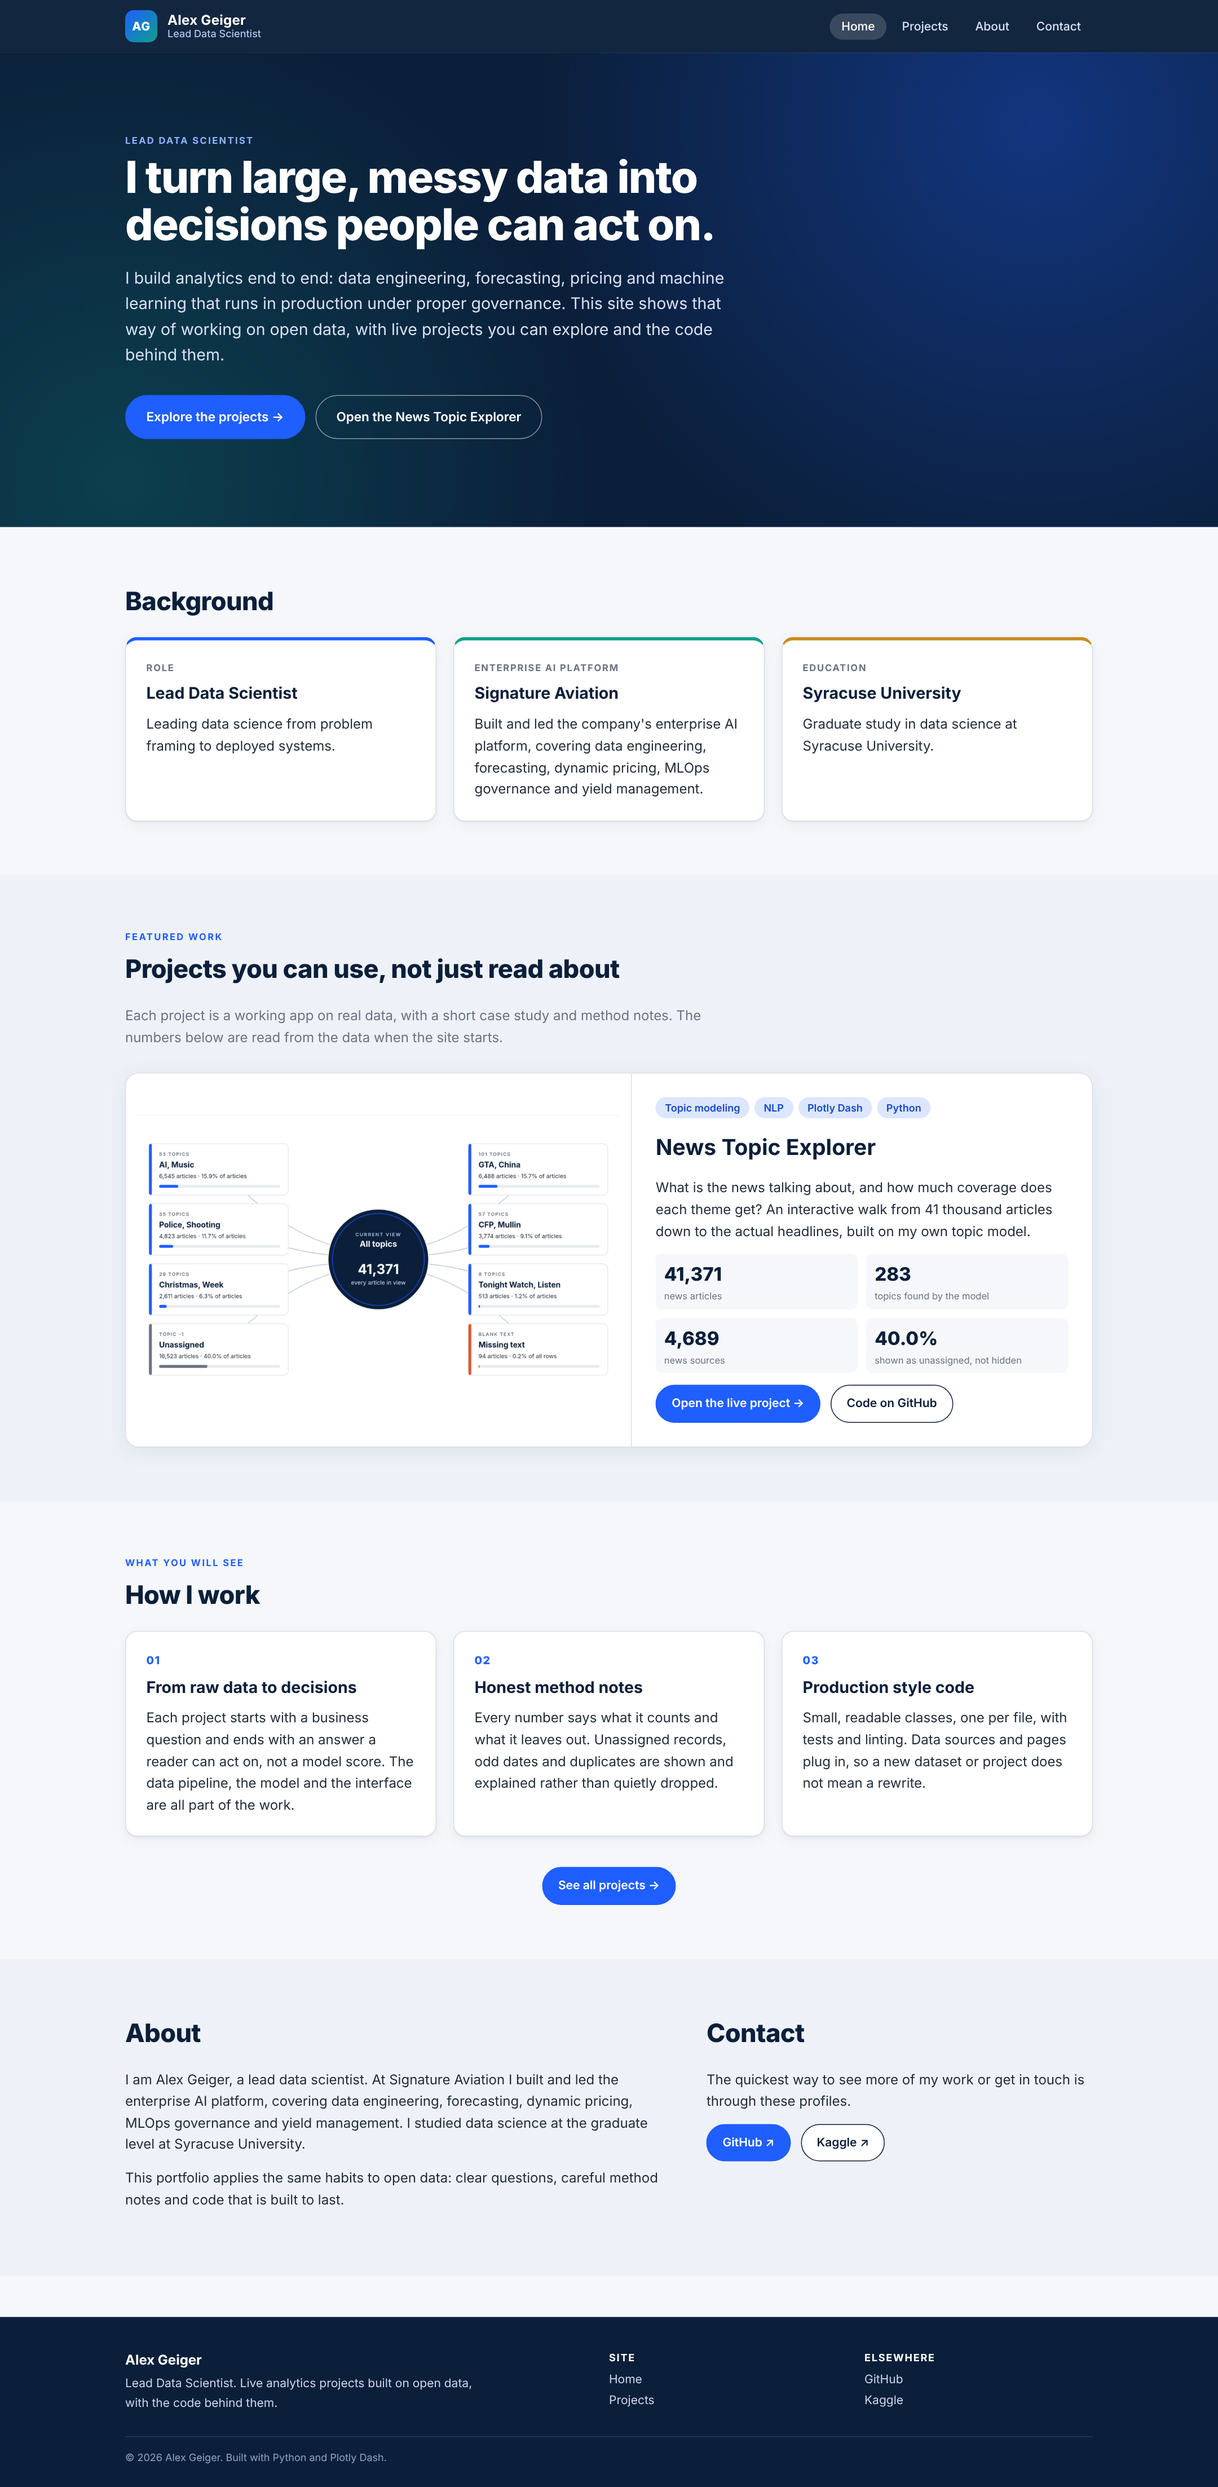
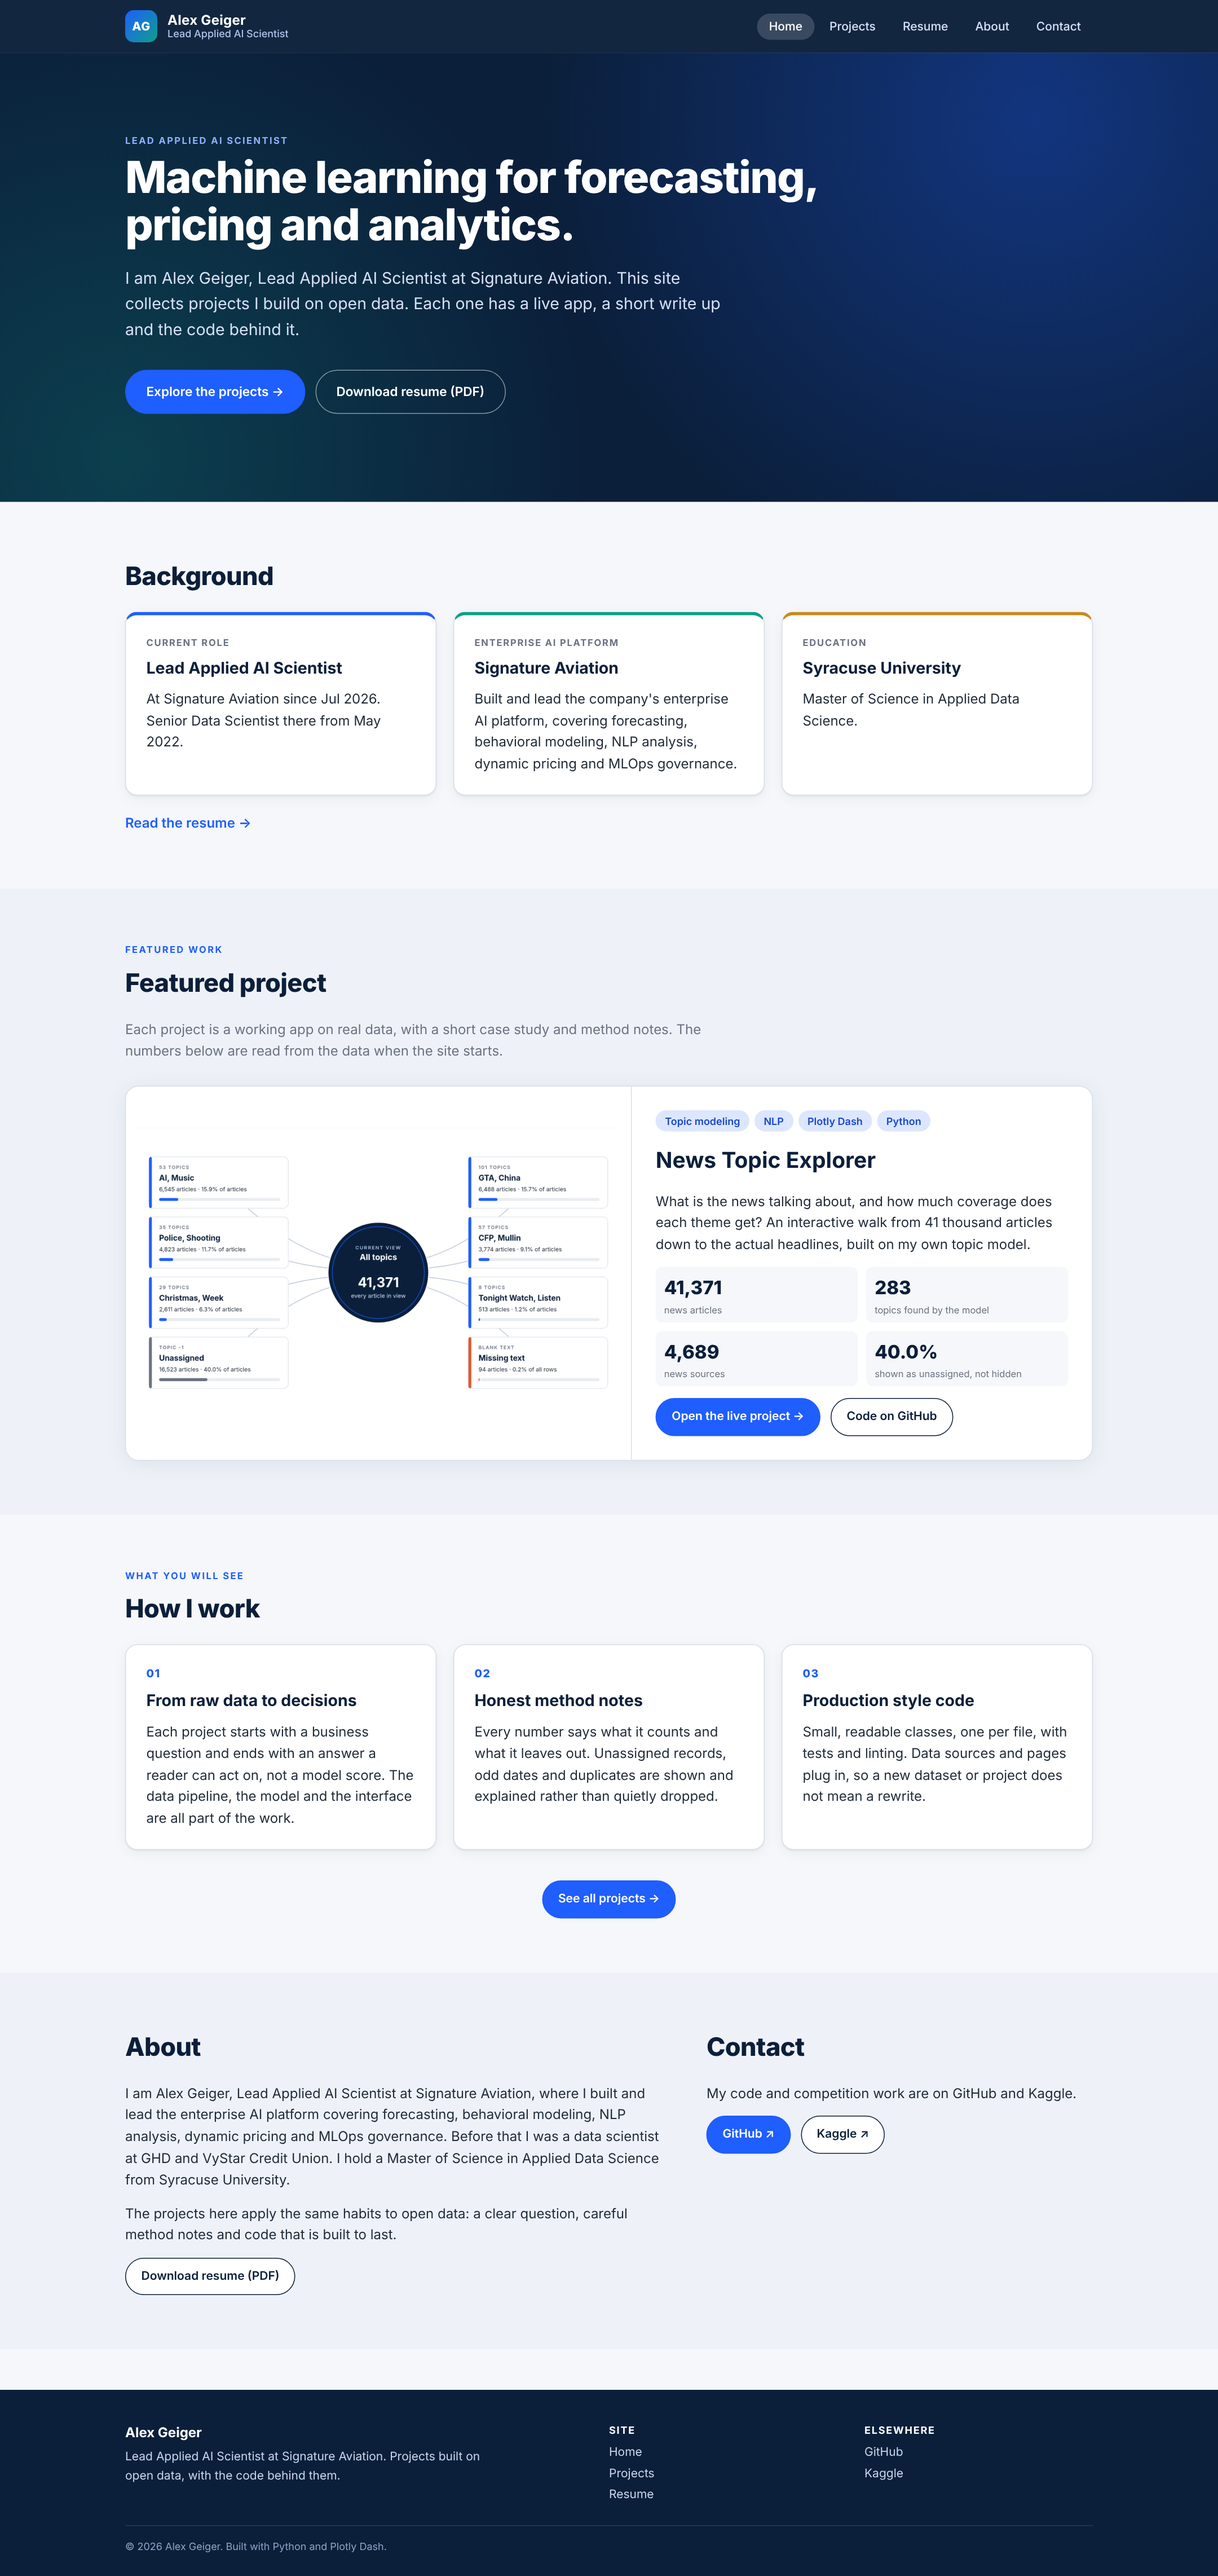
update readme copy and screenshots

diff --git a/README.md b/README.md
@@ -1,6 +1,6 @@
-# Alex Geiger, Lead Data Scientist: Portfolio Site
+# Alex Geiger, Lead Applied AI Scientist: Portfolio Site
 
-A personal portfolio website built in Plotly Dash. It presents who I am and how I work, then lets visitors open live analytics projects on real data. The first project is the **News Topic Explorer**: 41,371 news articles grouped into 283 topics by Headline Radar, my own BERTopic style topic model, turned into a map you can walk from the whole corpus down to single headlines.
+A personal portfolio website built in Plotly Dash. It covers my background and resume, and hosts analytics projects on real data that visitors can open and explore. The first project is the **News Topic Explorer**: 41,371 news articles grouped into 283 topics by Headline Radar, my own BERTopic style topic model, turned into a map you can walk from the whole corpus down to single headlines.
 
 **[Run it in three commands](#run-it)** &nbsp;\|&nbsp; [The website](#the-website) &nbsp;\|&nbsp; [Add a project](#add-a-project) &nbsp;\|&nbsp; [News Topic Explorer](#news-topic-explorer) &nbsp;\|&nbsp; [Data flow](#data-flow) &nbsp;\|&nbsp; [Sources](#sources)
 
@@ -10,11 +10,16 @@ A personal portfolio website built in Plotly Dash. It presents who I am and how 
 
 | Address | Page | What it does |
 | --- | --- | --- |
-| `/` | Home | Hero with the value proposition, background (Lead Data Scientist, the Signature Aviation enterprise AI platform, Syracuse University), featured projects with numbers read from their data, how I work, about and contact. |
+| `/` | Home | Short introduction, background (Lead Applied AI Scientist at Signature Aviation, the enterprise AI platform, Syracuse University), featured projects with numbers read from their data, how I work, about and contact links. |
 | `/projects` | Projects | One card per registered project: screenshot, summary, tags, headline numbers, a link to the live page and to the code. |
+| `/resume` | Resume | A plain summary of the resume (experience, education, certifications, skills) and the PDF download. |
 | `/projects/news-topic-explorer` | News Topic Explorer | A short case study (question, data, approach, key findings) above the live explorer. |
 
-Every page shares a sticky header (Home, Projects, About, Contact), a footer with GitHub and Kaggle links, and a layout that adapts down to phone width. Numbers on the home and projects pages are computed from each project's data when the site starts, so they never drift from the app.
+Every page shares a sticky header (Home, Projects, Resume, About, Contact), a footer with GitHub and Kaggle links, and a layout that adapts down to phone width. Numbers on the home and projects pages are computed from each project's data when the site starts, so they never drift from the app.
+
+The resume PDF is served from `assets/files/Alexander_Geiger_Resume.pdf`. The home page hero, the About section and the resume page link to it with "Download resume (PDF)". The resume page text lives in `config/Resume.py` and follows the PDF.
+
+![Resume page](docs/images/resume.png)
 
 ![Projects index](docs/images/projects.png)
 
@@ -121,6 +126,8 @@ flowchart LR
     AN --> PG["TopicExplorerPage"]
     PG --> REG["ProjectRegistry"]
     REG --> HOME["HomePage and ProjectsPage"]
+    RES["Resume and resume PDF"] --> RP["ResumePage"]
+    RP --> APP
     REG --> APP["PortfolioApp"]
     HOME --> APP
     PG --> EX["topic_labels.json and .csv"]
@@ -153,13 +160,13 @@ Tests use small hand made fixtures, never the real corpus.
 ```text
 app.py                  start the portfolio website
 build_cache.py          build the cache from Headline Radar outputs
-config/                 Settings, Profile, Theme, Formats
+config/                 Settings, Profile, Resume, Position, Theme, Formats
 data/                   readers, CacheBuilder and data sources
 analytics/              tree building, navigation, trends, search, labels
-components/             site shell, project cards, case study header, explorer parts
-pages/                  AbstractPage, AbstractProjectPage, HomePage, ProjectsPage, TopicExplorerPage
+components/             site shell, project cards, resume link, case study header, explorer parts
+pages/                  AbstractPage, AbstractProjectPage, HomePage, ProjectsPage, ResumePage, TopicExplorerPage
 portfolio/              PortfolioApp, Project, ProjectRegistry
-assets/                 style.css, anchor_scroll.js and project thumbnails
+assets/                 style.css, anchor_scroll.js, project thumbnails and the resume PDF
 tests/                  pytest suite with small fixtures
 docs/images/            screenshots captured from the running app
 ```
